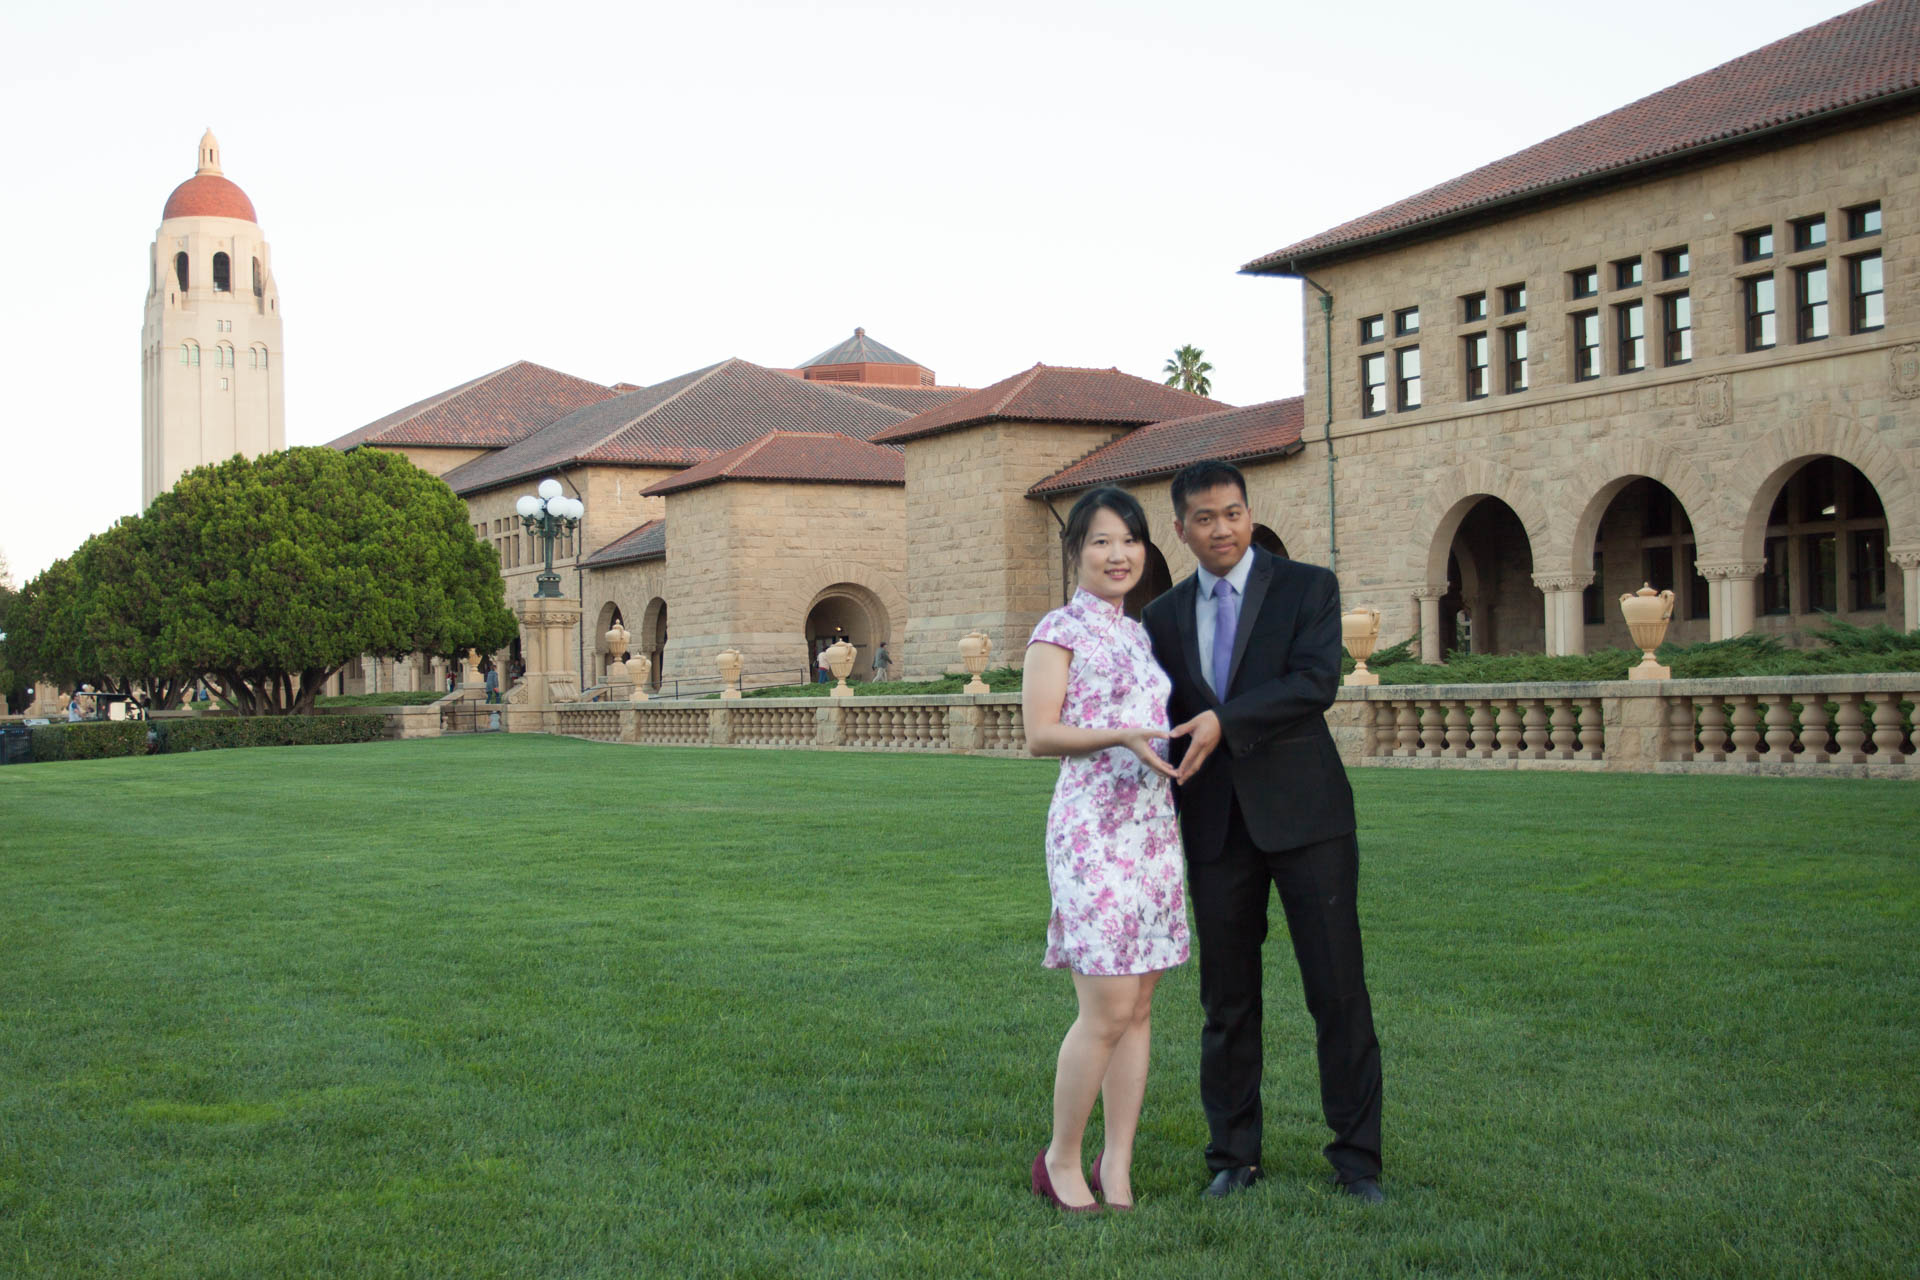
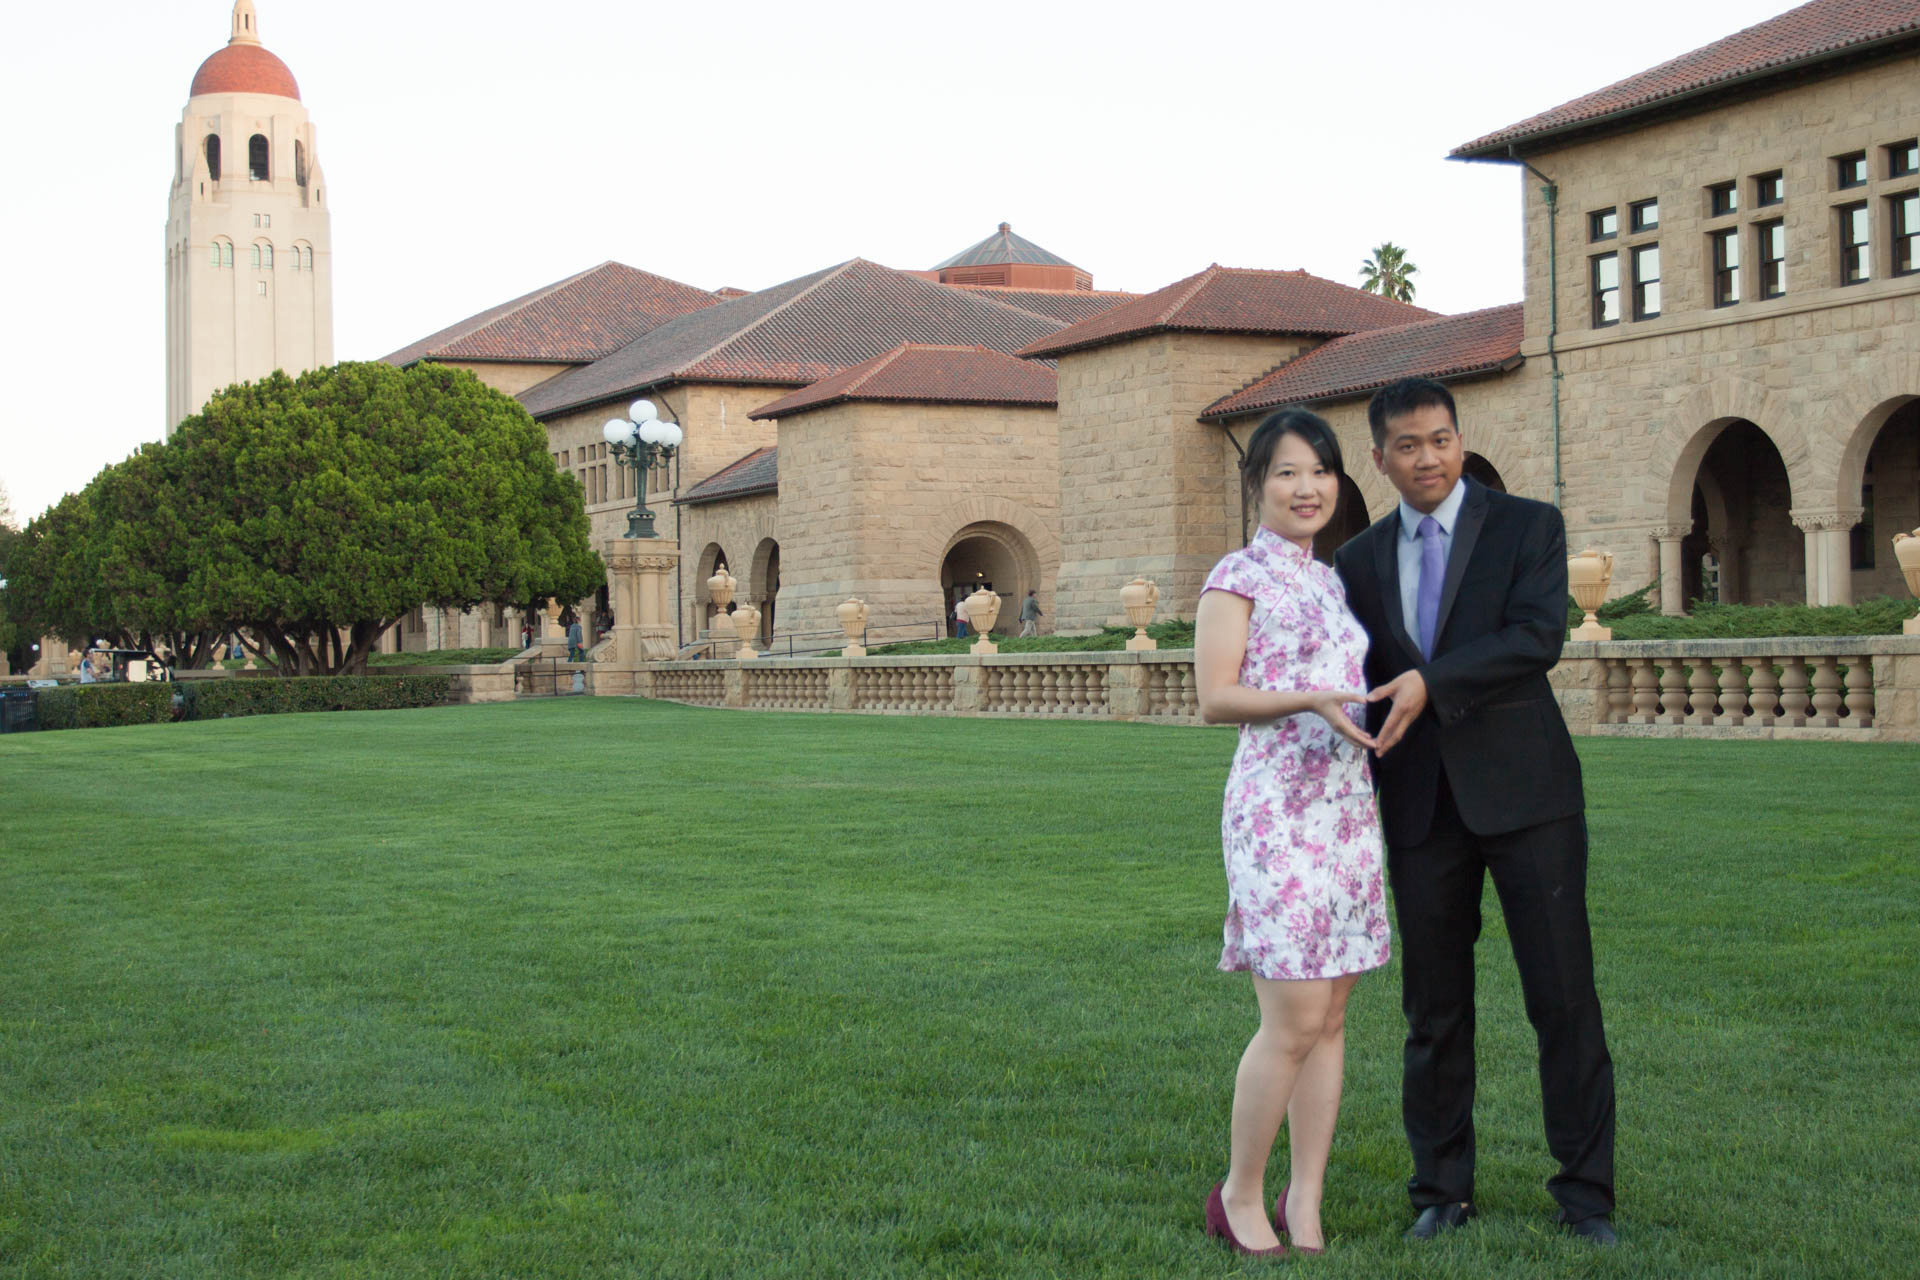
optimize hero photos

diff --git a/index.html b/index.html
@@ -36,7 +36,7 @@
 				<div class="owl-carousel owl-full-width owl-theme">
 					<div class="item"><img src="img/prewed04.jpg" alt="" class="img-as-bg"></div>
 					<div class="item"><img src="img/prewed01.jpg" alt="" class="img-as-bg"></div>
-					<div class="item"><img src="img/prewed02.jpg" alt="" class="img-as-bg"></div>
+					<div class="item"><img src="img/prewed06.jpg" alt="" class="img-as-bg"></div>
 				</div>
 				<div class="announcement-wrapper">
 					<div class="announcement animation-chain" data-animation="fadeInUp">
